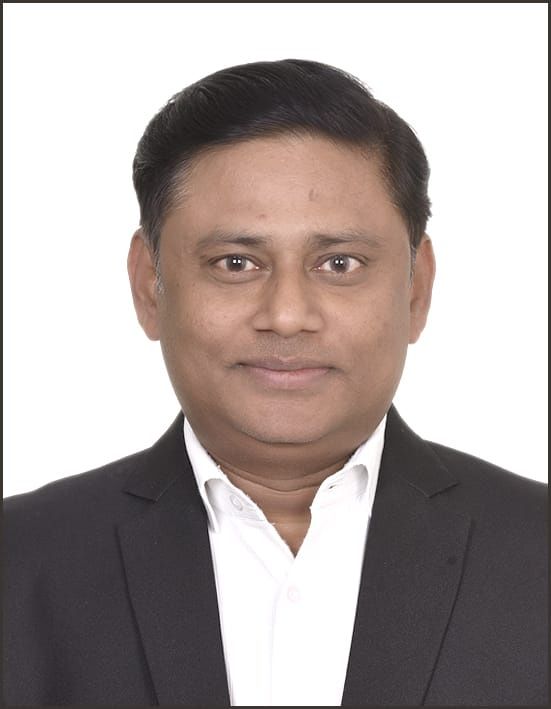
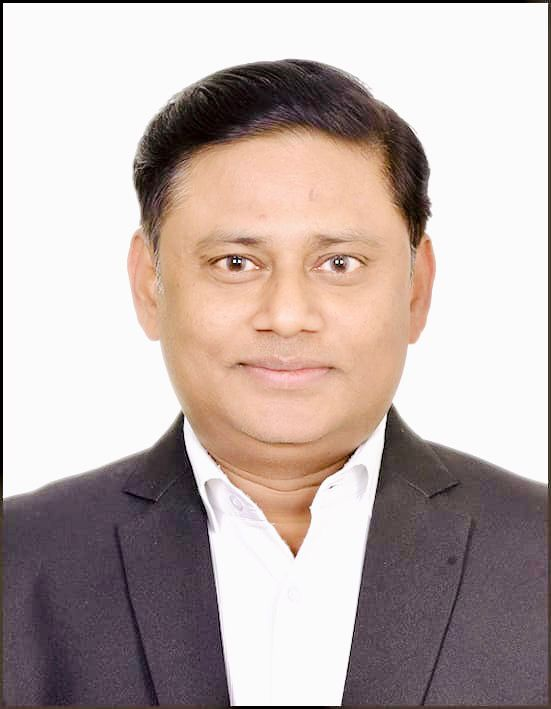
director's photo component changed

diff --git a/src/pages/About.jsx b/src/pages/About.jsx
@@ -168,12 +168,16 @@ export default function About() {
                 className="bg-white rounded-2xl shadow-lg border border-slate-100 p-6 hover:shadow-xl transition-shadow duration-300"
               >
                 <div>
-                  <img
-                    src={photo}
-                    alt={name}
-                    className="w-full h-64 object-contain object-top rounded-xl mb-4 bg-slate-50"
-                    loading="lazy"
-                  />
+                  <div className="flex justify-center mb-4">
+                    <div className="w-56 h-56 rounded-full overflow-hidden bg-white shadow-[0_0_0_6px_#000]">
+                      <div
+                        role="img"
+                        aria-label={name}
+                        className="w-full h-full rounded-full bg-cover bg-top scale-[1.02]"
+                        style={{ backgroundImage: `url(${photo})` }}
+                      />
+                    </div>
+                  </div>
                   <h3 className="font-heading font-bold text-xl text-primary-900">{name}</h3>
                   <p className="text-slate-500 text-xs font-medium mt-0.5">{credentials}</p>
                   <p className="text-teal-600 font-medium text-sm mb-3">{role}</p>
